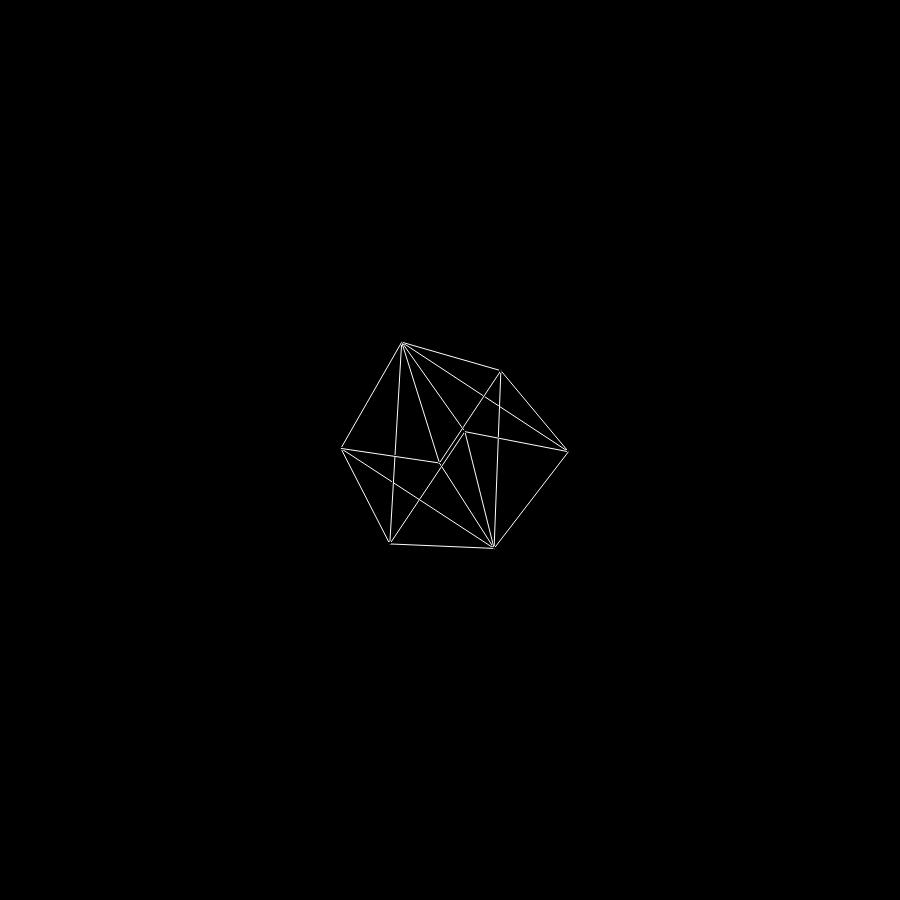
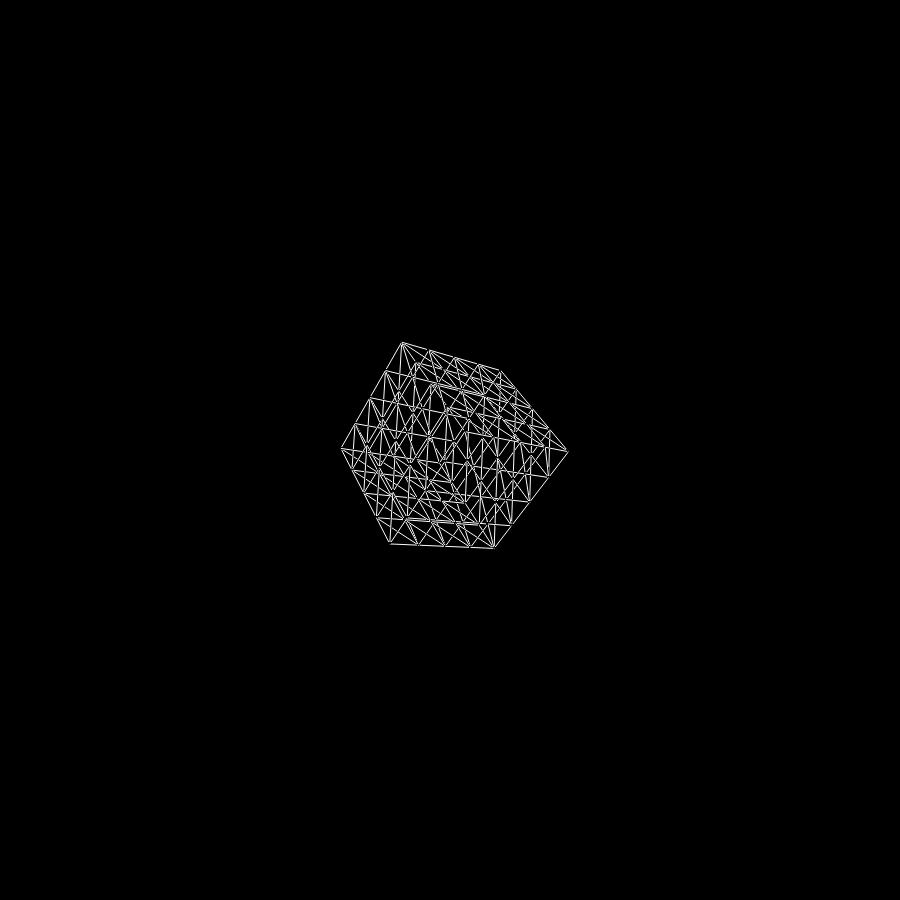
updated A4 files

Changed region(s): [[0.3733, 0.3733, 0.6222, 0.6222]]

diff --git a/a4/Renderer.py b/a4/Renderer.py
@@ -8,20 +8,117 @@ class Renderer:
     def __init__(self, dimensions):
         self.dimensions = dimensions
         # prep canvas
-        self.canvas = []
-        for i in range(0, dimensions):
+        self.frame_buffer = []
+        self.z_buffer = []
+        self.reset()
+
+    def reset(self):
+        self.frame_buffer = []
+        for i in range(0, self.dimensions):
             row = []
-            for j in range(0, dimensions):
+            for j in range(0, self.dimensions):
                 row.append( (0,0,0) )
-            self.canvas.append(row)
+            self.frame_buffer.append(row)
+        
+        self.z_buffer = []
+        for i in range(0, self.dimensions):
+            row = []
+            for j in range(0, self.dimensions):
+                row.append(1)
+            self.z_buffer.append(row)
+
 
     def save(self, image_name):
-        flat_canvas = list(chain.from_iterable(self.canvas))
+        flat_canvas = list(chain.from_iterable(self.frame_buffer))
         image = Image.new("RGB", (self.dimensions, self.dimensions), (0,0,0) )
         image.putdata(flat_canvas)
         image.save(image_name + ".jpg", "JPEG")
         image.close()
         print("RANDY: I've rendered " + image_name + ".jpg for your health")
+        self.reset()
+
+
+    def rasterize(self, face):
+        # pre compute dictionary size
+        y_vals = [ self.round(face.v1[1]), self.round(face.v2[1]), self.round(face.v3[1]) ]
+ 
+        y_min = min(y_vals)
+        y_max = max(y_vals)
+
+        # format:
+        # row_dict[y] = [(x0, z0), (x1, z1)]
+        row_dict = {}
+        # figure out what y values will be used (not including y-max), dict[y] = []
+        for y in range(y_min, y_max):
+            row_dict[y] = []
+
+        # go through lines set dict[y] = [xstart, xmax]
+        for edge in face.get_edges():
+            if self.round(edge[0][1]) != self.round(edge[1][1]):
+                line = self.rasterize_line(edge)
+                # print(line)
+                for pixel in line:
+                    x, y, z = pixel[0], pixel[1], pixel[2]
+                    if y != y_max:
+                        if row_dict.get(y) == None:
+                            print(face.get_edges())
+                            print(line)
+                        row = row_dict[y]
+                        # print("row[{}] = ({}, {})".format(y, x, z))
+                        row.append( (x, z) )
+                        row_dict[y] = row
+
+        xs, xe, zs, ze = 0, 0, 0.0, 0.0
+        for y in range(y_min, y_max):
+            row = row_dict[y]
+            # print("row[{}] = {}".format(y, row))
+
+            if row[0][0] > row[1][0]:
+                xs, xe = row[1][0], row[0][0]
+                zs, ze = row[1][1], row[0][1]
+            else:
+                xs, xe = row[0][0], row[1][0]
+                zs, ze = row[0][1], row[1][1]
+
+            z = zs
+            z_delta = 0.0
+            if xe - xs != 0:
+                z_delta = (ze - zs) / (xe - xs)
+
+            for x in range(xs, xe):
+                if z < self.z_buffer[y][x]:
+                    self.z_buffer[y][x] = z
+                    self.frame_buffer[y][x] = face.rgb
+                z += z_delta
+
+
+    def rasterize_line(self, edge):
+        line = []
+        # convert x and y to ints
+        x0 = self.round(edge[0][0])
+        y0 = self.round(edge[0][1])
+        z0 = edge[0][2]
+        x1 = self.round(edge[1][0])
+        y1 = self.round(edge[1][1])
+        z1 = edge[1][2]
+
+        if y0 > y1:
+            x0, x1 = x1, x0
+            y0, y1 = y1, y0
+            z0, z1 = z1, z0
+
+        delta_z = (z1 - z0) / (y1 - y0)
+
+        z = z0
+        x = x0
+        m = (x1 - x0) / (y1 - y0)
+        for y in range(y0, y1 + 1):
+            line.append((self.round(x), y, z))
+            x += m
+            # increment our values
+            z += delta_z
+
+        return line
 
     def plot(self, x, y, c):
         # do actual draw here
@@ -30,7 +127,7 @@ class Renderer:
         cc = int( 255.0 * c )
 
         if (px < self.dimensions and py < self.dimensions and px >= 0 and py >= 0):
-            self.canvas[py][px] = (cc, cc, cc)
+            self.frame_buffer[py][px] = (cc, cc, cc)
 
 
     def ipart(self, x):

diff --git a/a4/ViewSystem.py b/a4/ViewSystem.py
@@ -134,34 +134,17 @@ class ViewSystem:
         self.render_face_edges(scene_faces, dimensions, image_name + "_afterClipping", [to_canvas])
 
         # TODO: RENDER HERE
+        scene_faces = transform_faces(scene_faces, to_canvas)
+        for face in scene_faces:
+            randy.rasterize(face)
+            
+        randy.save(image_name + "_afterRasterizing")
 
         # TODO: Rasterize
+        
 
         # TODO: Z-Buffer
 
-        
-
-        solution_dict = {}
-        for index in range(0, len(scene_edges)):
-            first = scene_edges[index][0]
-            second = scene_edges[index][1]
-
-            p0 = solution_dict.get(first)
-            p1 = solution_dict.get(second)
-
-            if p0 == None:
-                p0 = apply_transformation(first, write_to_canvas)
-                solution_dict[first] = p0
-            
-            if p1 == None:
-                p1 = apply_transformation(second, write_to_canvas)
-                solution_dict[second] = p1
-
-            if (p0[2] >= 0 and p0[2] <= 1) or (p1[2] >= 0 and p1[2] <= 1):
-                randy.drawLine(p0[0], p0[1], p1[0], p1[1]) # draw line
-
-        # TODO: RENDER HERE
-        randy.save(image_name) # create, write, and save image file
 
         print("image saved!")
 

diff --git a/a4/main.py b/a4/main.py
@@ -52,7 +52,7 @@ def main():
     camera.build_view_volume(20.0, 500.0, 10.0)
     #camera.render_scene(2160, "renders/scene1")
 
-    basicAssCube = cubeFactory.build_polygon_mesh()
+    basicAssCube = cubeFactory.build_triangle_mesh(128)
     basicAssCube.add_transformation(TransformationFactory.y_rotation(30))
     basicAssCube.add_transformation(TransformationFactory.x_rotation(30))
     basicAssCube.add_transformation(TransformationFactory.z_rotation(30))
@@ -61,7 +61,7 @@ def main():
     camera.build_camera(0.0, 0.0, 10)
     camera.build_view_volume(3.0, 25.0, 2.0)
     camera.scene.add_mesh(basicAssCube, (0.0, 0.0, 0.0))
-    #camera.render_scene(900, "renders/cube")
+    camera.render_scene(900, "renders/cube")
 
     basicAssCylndr = cylinderFactory.build_triangle_mesh(4000)
     basicAssCylndr.add_transformation(TransformationFactory.y_rotation(30))

diff --git a/a4/TransformationFactory.py b/a4/TransformationFactory.py
@@ -88,6 +88,6 @@ def to_canvas(m):
     return [
         [0.0,    -m/(2.0),  0.0, (m/2.0)-0.5],
         [m/(2.0), 0.0,      0.0, (m/2.0)-0.5],
-        [0.0,     0.0,      0.0, 0.0],
+        [0.0,     0.0,      1.0, 0.0],
         [0.0,     0.0,      0.0, 1.0]
     ]
